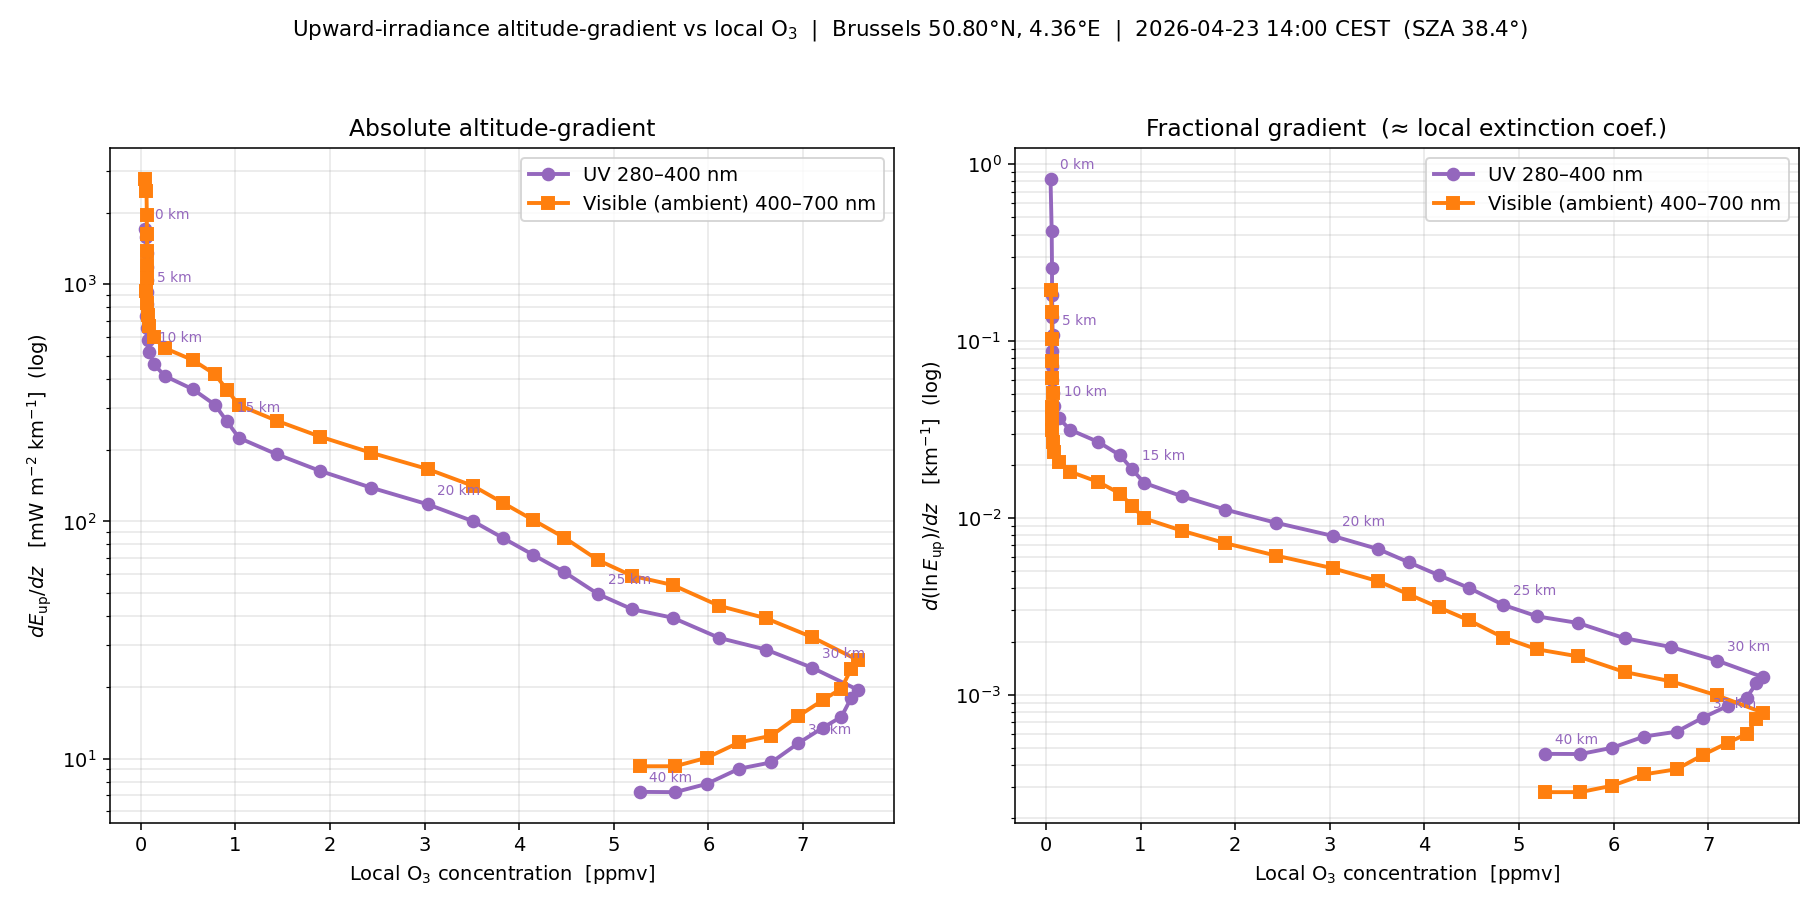
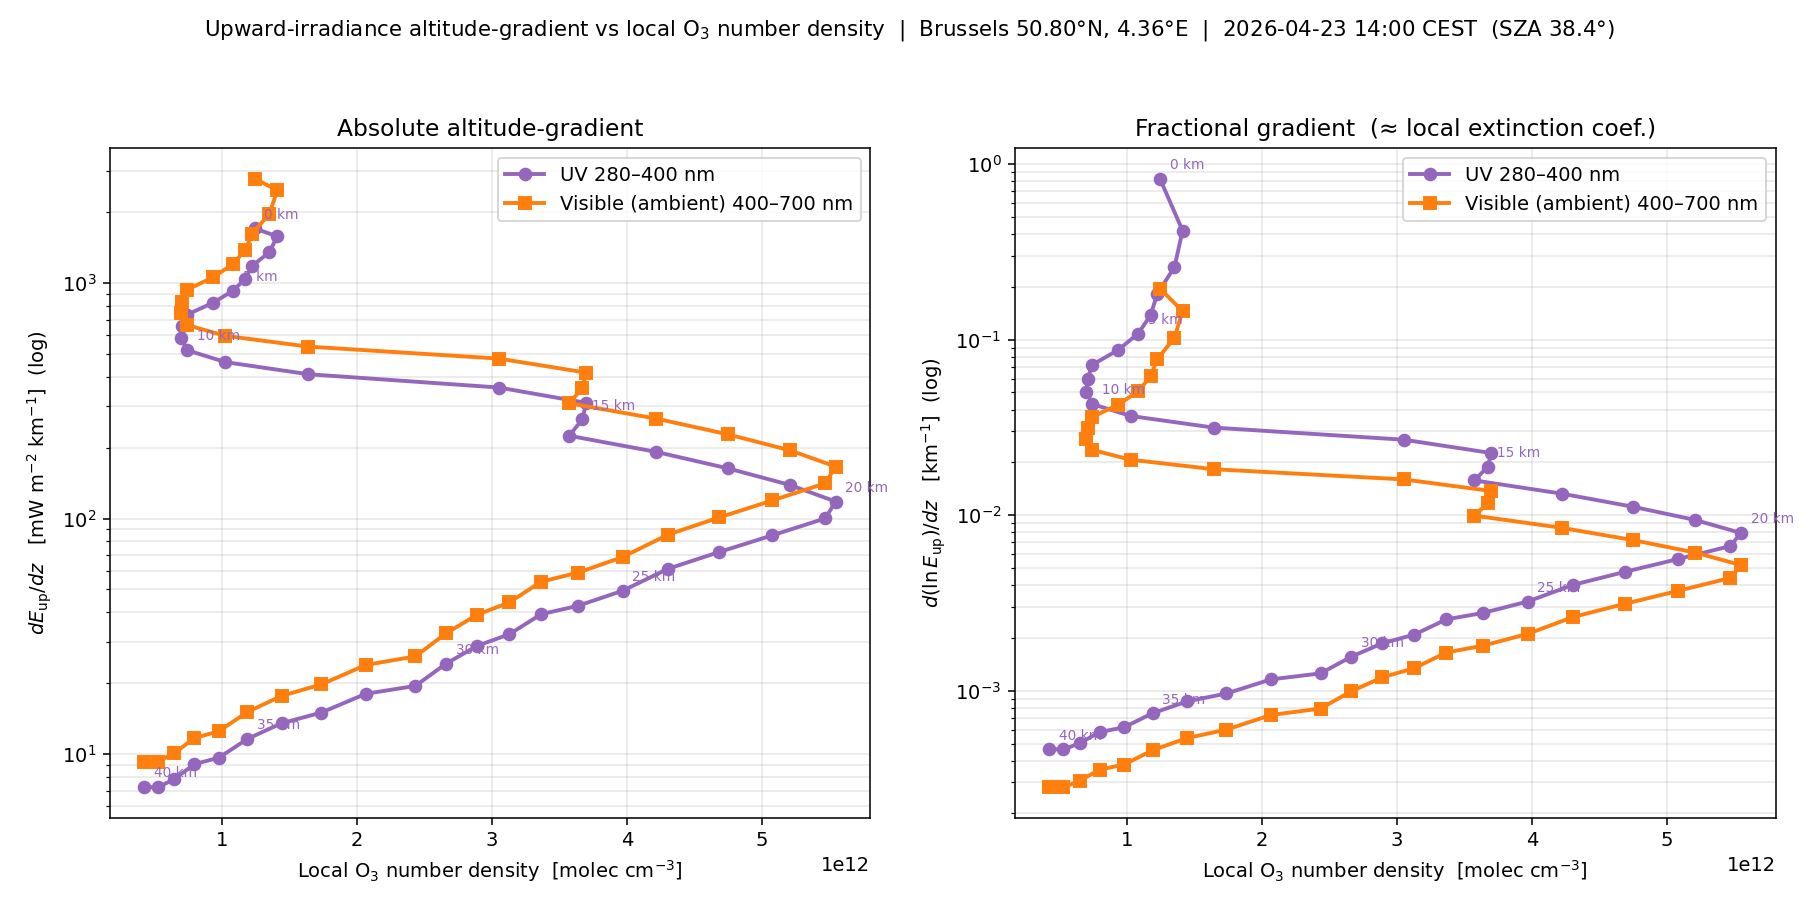
iBefore the flight

diff --git a/plot_uv_vs_o3.py b/plot_uv_vs_o3.py
@@ -59,6 +59,18 @@ def isa_pressure_hPa(z_m: np.ndarray) -> np.ndarray:
     return P
 
 
+def isa_temp_K(z_m: np.ndarray) -> np.ndarray:
+    z = np.asarray(z_m, dtype=float)
+    T = np.full(z.shape, np.nan)
+    for i in range(LAPSE.size):
+        mask = (z >= HB_M[i]) & (z <= HB_M[i + 1])
+        T[mask] = TB[i] + LAPSE[i] * (z[mask] - HB_M[i])
+    above = z > HB_M[-1]
+    if np.any(above):
+        T[above] = TB[-1] + LAPSE[-1] * (z[above] - HB_M[-1])
+    return T
+
+
 # ---------------------------------------------------------------------------
 # O3 profile → ppmv at each km
 # ---------------------------------------------------------------------------
@@ -69,15 +81,21 @@ o3 = pd.read_csv(
     names=["p_hPa", "mmr"],
 ).sort_values("p_hPa").reset_index(drop=True)
 
+K_B = 1.380649e-23  # Boltzmann [J/K]
+
 altitudes_km = np.arange(0, 41)
 p_at_alt_hPa = isa_pressure_hPa(altitudes_km * 1000.0)
+T_at_alt_K = isa_temp_K(altitudes_km * 1000.0)
+
 # Interpolate mmr in log-pressure
 mmr_at_alt = np.interp(
     np.log(p_at_alt_hPa),
     np.log(o3["p_hPa"].to_numpy()),
     o3["mmr"].to_numpy(),
 )
-ppmv_at_alt = mmr_at_alt * 0.603 * 1e6  # mmr → volume mixing ratio (ppmv)
+ppmv_at_alt = mmr_at_alt * 0.603 * 1e6                   # ppmv (volume mixing ratio)
+n_air_cm3 = (p_at_alt_hPa * 100.0) / (K_B * T_at_alt_K) / 1e6  # molec/cm³
+n_o3_cm3 = ppmv_at_alt * 1e-6 * n_air_cm3               # O3 number density [molec/cm³]
 
 
 # ---------------------------------------------------------------------------
@@ -112,6 +130,7 @@ for z_km in altitudes_km:
 irr = pd.DataFrame(rows).sort_values("z_km").reset_index(drop=True)
 z = irr["z_km"].to_numpy()
 irr["ppmv"] = np.interp(z, altitudes_km, ppmv_at_alt)
+irr["n_o3"] = np.interp(z, altitudes_km, n_o3_cm3)  # molec/cm³
 
 # dE/dz via central differences (np.gradient handles uneven spacing and edges)
 irr["duv_dz"] = np.gradient(irr["uv_up"].to_numpy(), z)
@@ -122,7 +141,7 @@ irr["dln_vis_dz"] = irr["dvis_dz"] / irr["vis_up"]
 
 
 # ---------------------------------------------------------------------------
-# Plot — two panels vs local O3 ppmv:
+# Plot — two panels vs local O3 number density:
 #   left:  dE_up/dz  on log-y   (absolute gradient, mW m^-2 km^-1)
 #   right: d(lnE)/dz on log-y   (fractional gradient, km^-1, ~ extinction coef)
 # ---------------------------------------------------------------------------
@@ -130,20 +149,20 @@ fig, (ax_abs, ax_rel) = plt.subplots(1, 2, figsize=(13, 6.5))
 
 for ax in (ax_abs, ax_rel):
     ax.set_yscale("log")
-    ax.set_xlabel(r"Local O$_3$ concentration  [ppmv]")
+    ax.set_xlabel(r"Local O$_3$ number density  [molec cm$^{-3}$]")
     ax.grid(True, which="both", alpha=0.3)
 
-ax_abs.plot(irr["ppmv"], irr["duv_dz"], color="tab:purple",
+ax_abs.plot(irr["n_o3"], irr["duv_dz"], color="tab:purple",
             marker="o", ms=6, lw=2, label="UV 280–400 nm")
-ax_abs.plot(irr["ppmv"], irr["dvis_dz"], color="tab:orange",
+ax_abs.plot(irr["n_o3"], irr["dvis_dz"], color="tab:orange",
             marker="s", ms=6, lw=2, label="Visible (ambient) 400–700 nm")
 ax_abs.set_ylabel(r"$dE_\mathrm{up}/dz$   [mW m$^{-2}$ km$^{-1}$]  (log)")
 ax_abs.set_title("Absolute altitude-gradient")
 ax_abs.legend(loc="best", fontsize=10)
 
-ax_rel.plot(irr["ppmv"], irr["dln_uv_dz"], color="tab:purple",
+ax_rel.plot(irr["n_o3"], irr["dln_uv_dz"], color="tab:purple",
             marker="o", ms=6, lw=2, label="UV 280–400 nm")
-ax_rel.plot(irr["ppmv"], irr["dln_vis_dz"], color="tab:orange",
+ax_rel.plot(irr["n_o3"], irr["dln_vis_dz"], color="tab:orange",
             marker="s", ms=6, lw=2, label="Visible (ambient) 400–700 nm")
 ax_rel.set_ylabel(r"$d(\ln E_\mathrm{up})/dz$   [km$^{-1}$]  (log)")
 ax_rel.set_title("Fractional gradient  (≈ local extinction coef.)")
@@ -153,16 +172,16 @@ for _, r in irr.iterrows():
     zi = int(round(r["z_km"]))
     if zi in (0, 5, 10, 15, 20, 25, 30, 35, 40):
         ax_abs.annotate(f"{zi} km",
-                        xy=(r["ppmv"], r["duv_dz"]),
+                        xy=(r["n_o3"], r["duv_dz"]),
                         xytext=(5, 5), textcoords="offset points",
                         fontsize=7, color="tab:purple")
         ax_rel.annotate(f"{zi} km",
-                        xy=(r["ppmv"], r["dln_uv_dz"]),
+                        xy=(r["n_o3"], r["dln_uv_dz"]),
                         xytext=(5, 5), textcoords="offset points",
                         fontsize=7, color="tab:purple")
 
 fig.suptitle(
-    "Upward-irradiance altitude-gradient vs local O$_3$  |  "
+    "Upward-irradiance altitude-gradient vs local O$_3$ number density  |  "
     "Brussels 50.80°N, 4.36°E  |  2026-04-23 14:00 CEST  (SZA 38.4°)",
     fontsize=11,
 )
@@ -171,4 +190,6 @@ out = Path("uv_vs_o3.png")
 fig.savefig(out, dpi=140)
 print(f"Saved: {out.resolve()}")
 print()
-print(irr[["z_km", "ppmv", "uv_up", "vis_up", "duv_dz", "dvis_dz"]].round(3).to_string(index=False))
+print(irr[["z_km", "ppmv", "n_o3", "uv_up", "vis_up", "duv_dz", "dvis_dz"]]
+      .assign(n_o3=lambda d: d["n_o3"].map(lambda v: f"{v:.2e}"))
+      .round(3).to_string(index=False))
